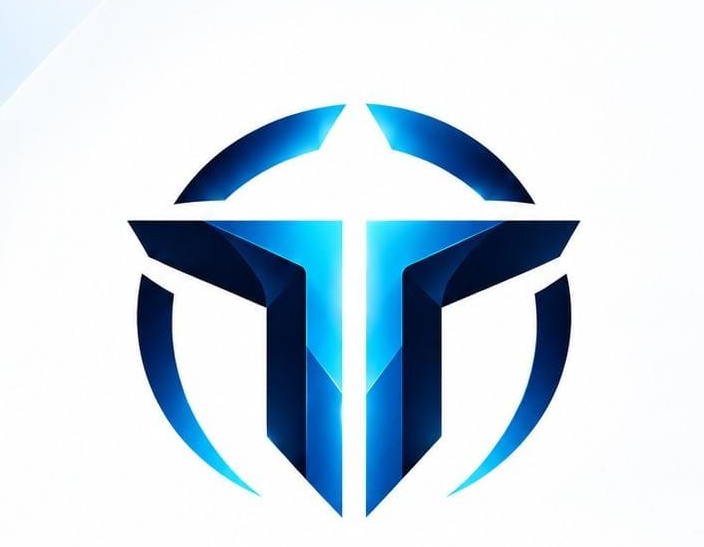
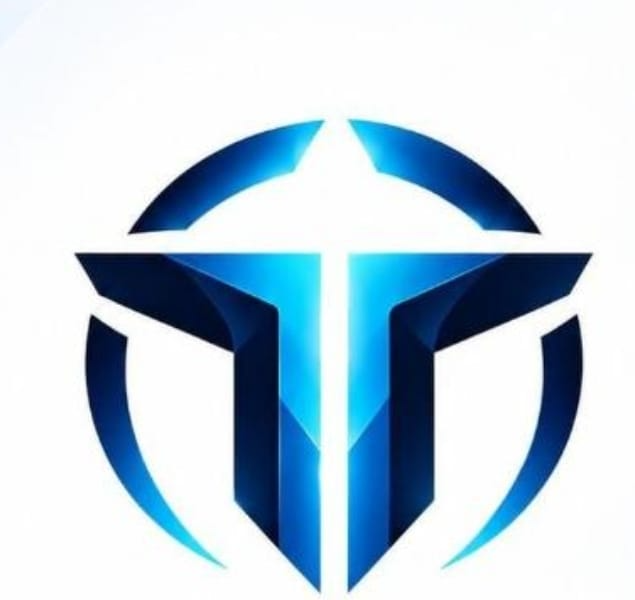
refactor: update brand assets
Update favicon and logo assets for TITAN AI AGENCY.

diff --git a/src/components/home/CinematicVideoHero.tsx b/src/components/home/CinematicVideoHero.tsx
@@ -121,7 +121,7 @@ export const CinematicVideoHero: React.FC<CinematicVideoHeroProps> = ({ onGetQuo
         <div className="hero-reveal-buttons flex flex-col sm:flex-row items-stretch sm:items-center justify-center gap-3 sm:gap-4 pt-1 sm:pt-2 w-full max-w-xs sm:max-w-none mx-auto">
           <button
             type="button"
-            id="hero-glass-cta-btn"
+            id="hero-primary-cta-btn"
             onClick={() => {
               if (onGetQuote) {
                 onGetQuote();
@@ -129,18 +129,10 @@ export const CinematicVideoHero: React.FC<CinematicVideoHeroProps> = ({ onGetQuo
                 openQuote();
               }
             }}
-            className="group relative w-full sm:w-auto min-h-[48px] px-6 sm:px-8 py-3.5 sm:py-4 rounded-full text-white text-sm sm:text-base font-semibold shadow-[0_8px_30px_rgba(0,209,255,0.25)] hover:shadow-[0_12px_40px_rgba(0,209,255,0.4)] transition-all duration-250 cursor-pointer active:scale-[0.98] inline-flex items-center justify-center gap-2.5 text-center"
-            style={{
-              background: 'linear-gradient(135deg, rgba(255,255,255,0.15) 0%, rgba(0,209,255,0.15) 100%)',
-              backdropFilter: 'blur(24px)',
-              WebkitBackdropFilter: 'blur(24px)',
-              border: '1px solid rgba(159, 224, 255, 0.4)',
-            }}
+            className="group relative w-full sm:w-auto min-h-[48px] px-7 sm:px-9 py-3.5 sm:py-4 rounded-full bg-[#168EEA] hover:bg-[#1A98FA] text-white text-sm sm:text-base font-bold shadow-[0_4px_20px_rgba(22,142,234,0.35)] hover:shadow-[0_6px_24px_rgba(22,142,234,0.5)] transition-all duration-200 cursor-pointer active:scale-[0.98] inline-flex items-center justify-center gap-2.5 text-center shrink-0"
           >
-            {/* Top highlight line */}
-            <span className="absolute top-0 left-4 right-4 h-[1px] bg-gradient-to-r from-transparent via-white/60 to-transparent pointer-events-none" />
             <span>{t.hero.primaryButton}</span>
-            <ArrowRight className={`w-4 h-4 text-[#9FE0FF] ${isRtl ? 'rotate-180 group-hover:-translate-x-1' : 'group-hover:translate-x-1'} transition-transform duration-200`} />
+            <ArrowRight className={`w-4 h-4 text-white ${isRtl ? 'rotate-180 group-hover:-translate-x-1' : 'group-hover:translate-x-1'} transition-transform duration-200`} />
           </button>
 
           <a
@@ -150,7 +142,7 @@ export const CinematicVideoHero: React.FC<CinematicVideoHeroProps> = ({ onGetQuo
               const el = document.getElementById('portfolio') || document.getElementById('services-preview-section');
               if (el) el.scrollIntoView({ behavior: 'smooth' });
             }}
-            className="w-full sm:w-auto min-h-[48px] px-6 sm:px-8 py-3.5 sm:py-4 rounded-full text-sm sm:text-base font-medium text-[#C5D2E2] hover:text-white transition-colors cursor-pointer border border-white/15 hover:border-white/30 bg-white/[0.05] inline-flex items-center justify-center text-center"
+            className="w-full sm:w-auto min-h-[48px] px-7 sm:px-9 py-3.5 sm:py-4 rounded-full text-sm sm:text-base font-semibold text-[#EAF7FF] hover:text-white transition-all duration-200 cursor-pointer border border-white/20 hover:border-white/40 bg-white/[0.06] hover:bg-white/[0.12] inline-flex items-center justify-center text-center shrink-0"
           >
             <span>{t.hero.secondaryButton}</span>
           </a>

diff --git a/src/components/TitanLogo.tsx b/src/components/TitanLogo.tsx
@@ -27,19 +27,31 @@ export interface TitanFullLogoProps {
 }
 
 export const TitanFullLogo: React.FC<TitanFullLogoProps> = ({
-  className = 'h-11 sm:h-12 w-auto'
+  variant = 'light',
+  className = 'h-10 sm:h-12 w-auto'
 }) => {
+  const isDark = variant === 'dark';
   return (
-    <img
-      src="/titan-logo.webp"
-      alt="TITAN AI AGENCY"
-      className={`object-contain rounded-xl shadow-xs transition-transform duration-200 ${className}`}
-      loading="eager"
-      fetchPriority="high"
-      decoding="async"
-      width={180}
-      height={48}
-    />
+    <div className="flex items-center gap-2.5 sm:gap-3 select-none shrink-0 whitespace-nowrap">
+      <img
+        src="/titan-icon.webp"
+        alt="TITAN AI Emblem"
+        className={`object-contain rounded-xl shrink-0 transition-transform duration-200 group-hover:scale-[1.02] ${className}`}
+        loading="eager"
+        fetchPriority="high"
+        decoding="async"
+        width={44}
+        height={44}
+      />
+      <div className="flex flex-col text-left leading-tight shrink-0 whitespace-nowrap">
+        <span className={`font-display font-extrabold text-base sm:text-lg lg:text-xl tracking-wider ${isDark ? 'text-[#071A33]' : 'text-white'}`}>
+          TITAN <span className="text-[#00D1FF]">AI</span>
+        </span>
+        <span className="text-[9px] sm:text-[10px] font-mono tracking-[0.26em] text-[#00D1FF] font-bold uppercase">
+          AGENCY
+        </span>
+      </div>
+    </div>
   );
 };
 
@@ -55,8 +67,8 @@ interface TitanLogoProps {
 }
 
 export const TitanLogo: React.FC<TitanLogoProps> = ({
-  variant = 'dark',
-  showTagline = false,
+  variant = 'light',
+  showTagline = true,
   showText = true,
   className = '',
   iconClassName = 'h-10 sm:h-12 w-auto',
@@ -69,17 +81,27 @@ export const TitanLogo: React.FC<TitanLogoProps> = ({
   }
 
   return (
-    <div className={`flex items-center gap-3 select-none ${className}`}>
+    <div className={`flex items-center gap-2.5 sm:gap-3 select-none shrink-0 whitespace-nowrap ${className}`}>
       <img
-        src="/titan-logo.webp"
-        alt="TITAN AI AGENCY"
-        className={`object-contain rounded-xl bg-white/95 p-1 border border-white/20 shadow-xs transition-transform duration-200 group-hover:scale-[1.02] ${iconClassName}`}
+        src="/titan-icon.webp"
+        alt="TITAN AI Emblem"
+        className={`object-contain rounded-xl shrink-0 transition-transform duration-200 group-hover:scale-[1.02] ${iconClassName}`}
         loading="eager"
         fetchPriority="high"
         decoding="async"
-        width={180}
-        height={48}
+        width={44}
+        height={44}
       />
+      {showText && (
+        <div className="flex flex-col text-left leading-tight shrink-0 whitespace-nowrap">
+          <span className={`font-display font-extrabold text-base sm:text-lg lg:text-xl tracking-wider ${isDark ? 'text-[#071A33]' : 'text-white'}`}>
+            TITAN <span className="text-[#00D1FF]">AI</span>
+          </span>
+          <span className="text-[9px] sm:text-[10px] font-mono tracking-[0.26em] text-[#00D1FF] font-bold uppercase">
+            AGENCY
+          </span>
+        </div>
+      )}
     </div>
   );
 };

diff --git a/src/components/Navbar.tsx b/src/components/Navbar.tsx
@@ -51,8 +51,8 @@ export const Navbar: React.FC = () => {
           className="flex items-center group focus:outline-none focus:ring-2 focus:ring-[#00D1FF]/50 rounded-lg p-1 transition-transform duration-300 hover:scale-[1.01] whitespace-nowrap shrink-0"
         >
           <TitanLogo
-            variant="dark"
-            iconClassName={`transition-all duration-300 drop-shadow-[0_0_12px_rgba(0,209,255,0.3)] ${scrolled ? 'h-9 sm:h-11 w-auto' : 'h-10 sm:h-12 w-auto'}`}
+            variant="light"
+            iconClassName={`transition-all duration-300 drop-shadow-[0_0_12px_rgba(0,209,255,0.3)] ${scrolled ? 'h-9 sm:h-10 w-auto' : 'h-10 sm:h-11 w-auto'}`}
           />
         </Link>
 

diff --git a/src/components/Footer.tsx b/src/components/Footer.tsx
@@ -16,7 +16,7 @@ export const Footer: React.FC = () => {
             {/* Column 1: Agency Brand & Identity */}
             <div className="lg:col-span-2 space-y-4">
               <Link to="/" className="inline-block group">
-                <TitanLogo variant="dark" iconClassName="h-12 sm:h-14 w-auto drop-shadow-[0_0_14px_rgba(0,209,255,0.3)]" />
+                <TitanLogo variant="light" iconClassName="h-10 sm:h-12 w-auto drop-shadow-[0_0_14px_rgba(0,209,255,0.3)]" />
               </Link>
 
               <p className="text-sm text-[#8FA0BA] max-w-sm leading-relaxed mt-2">
